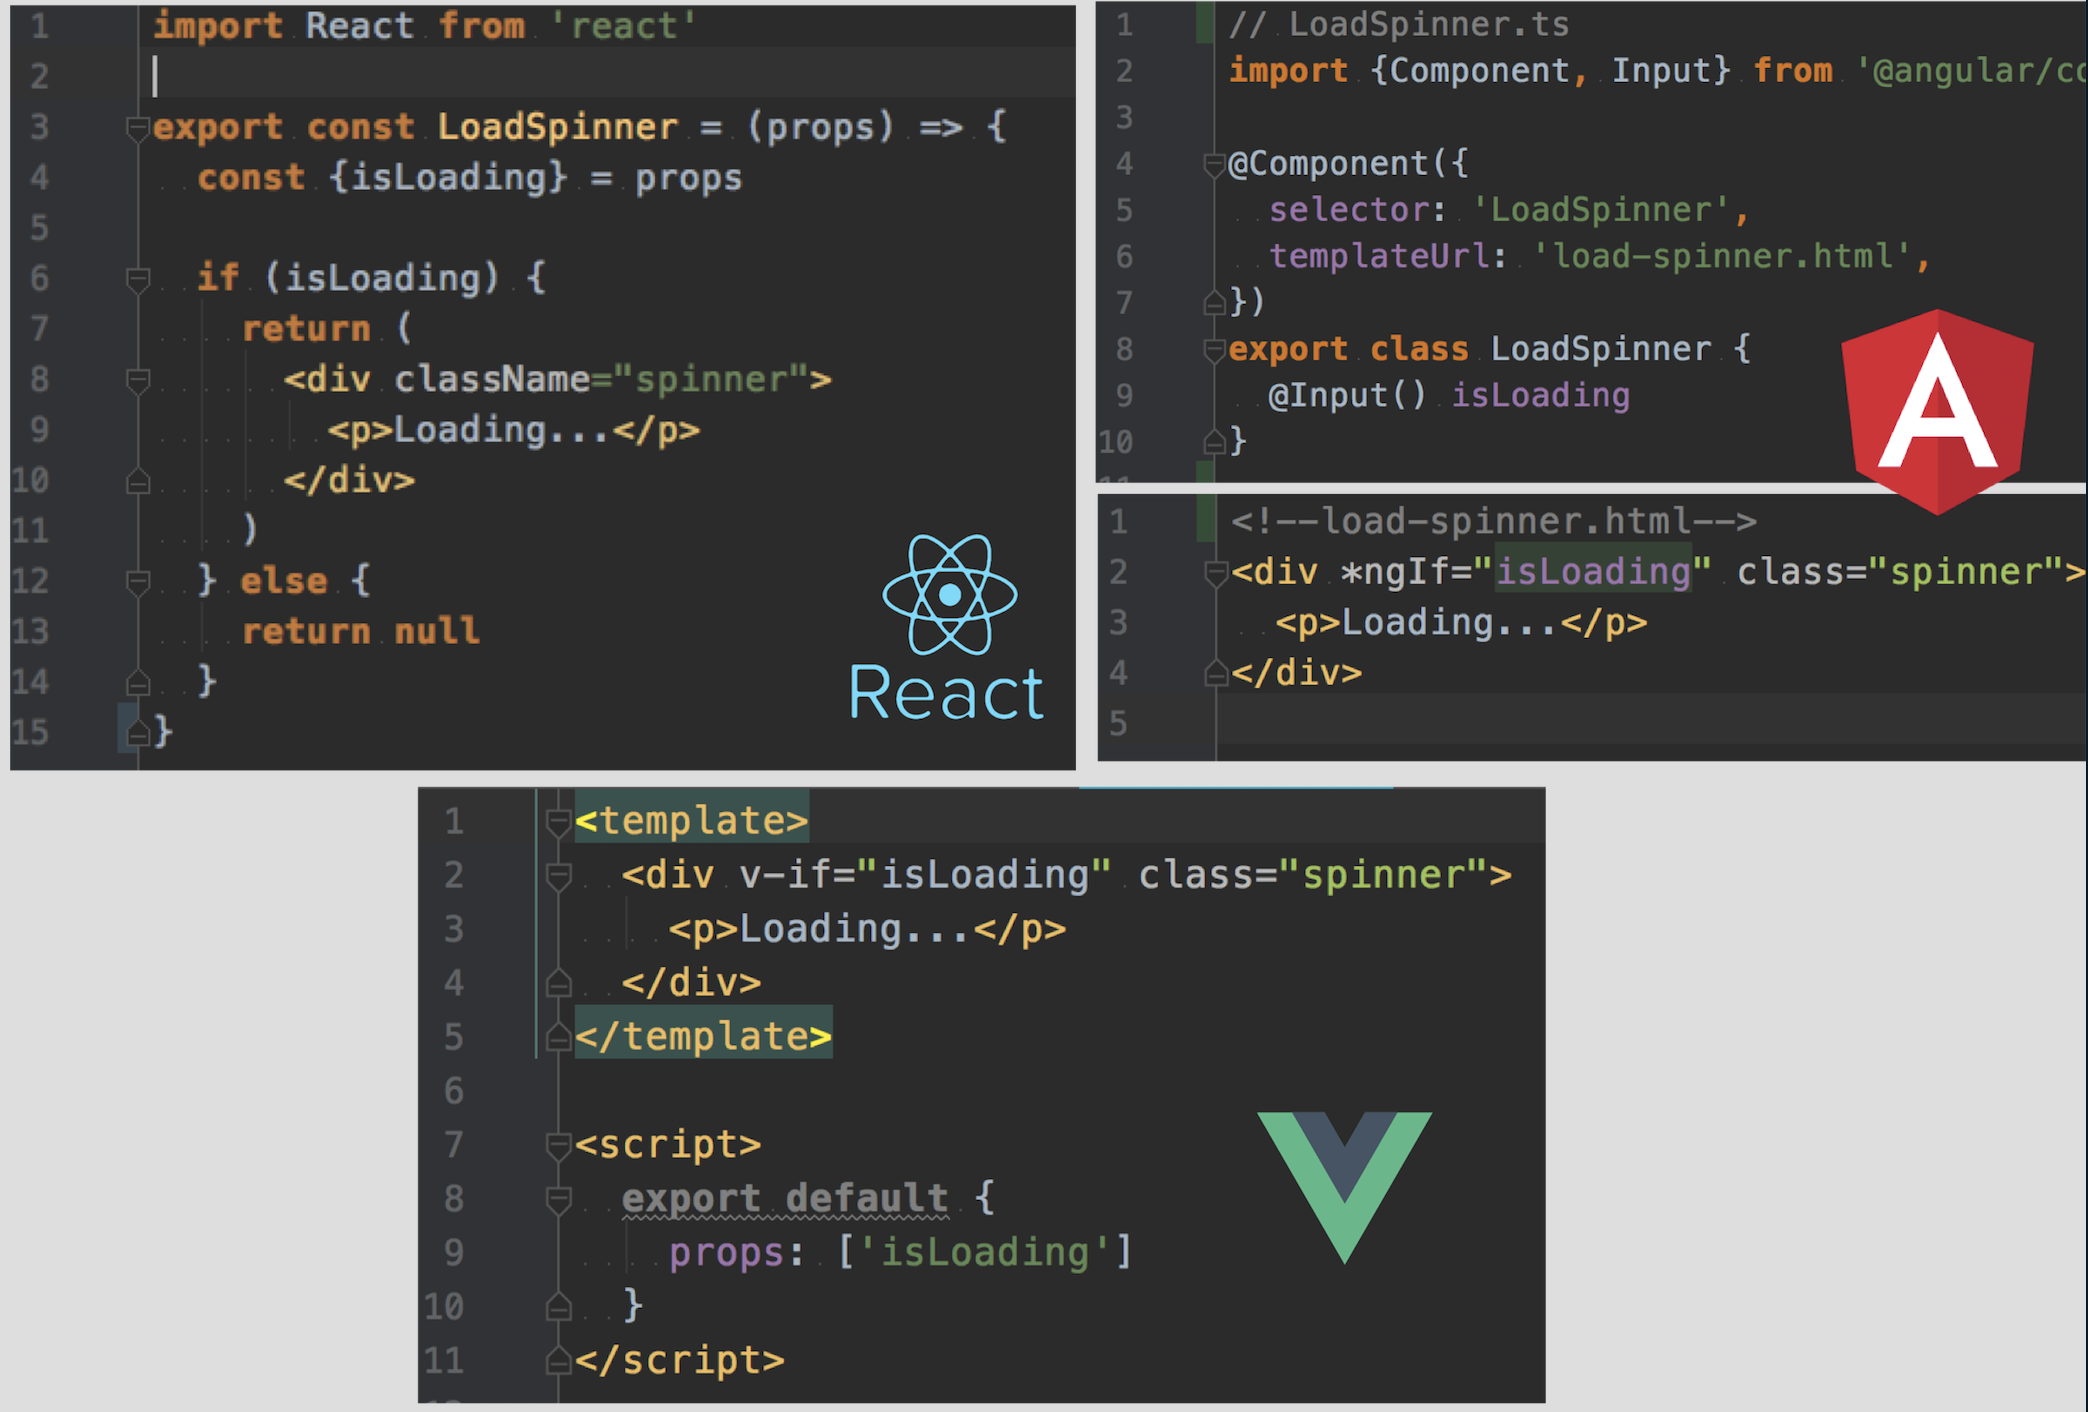
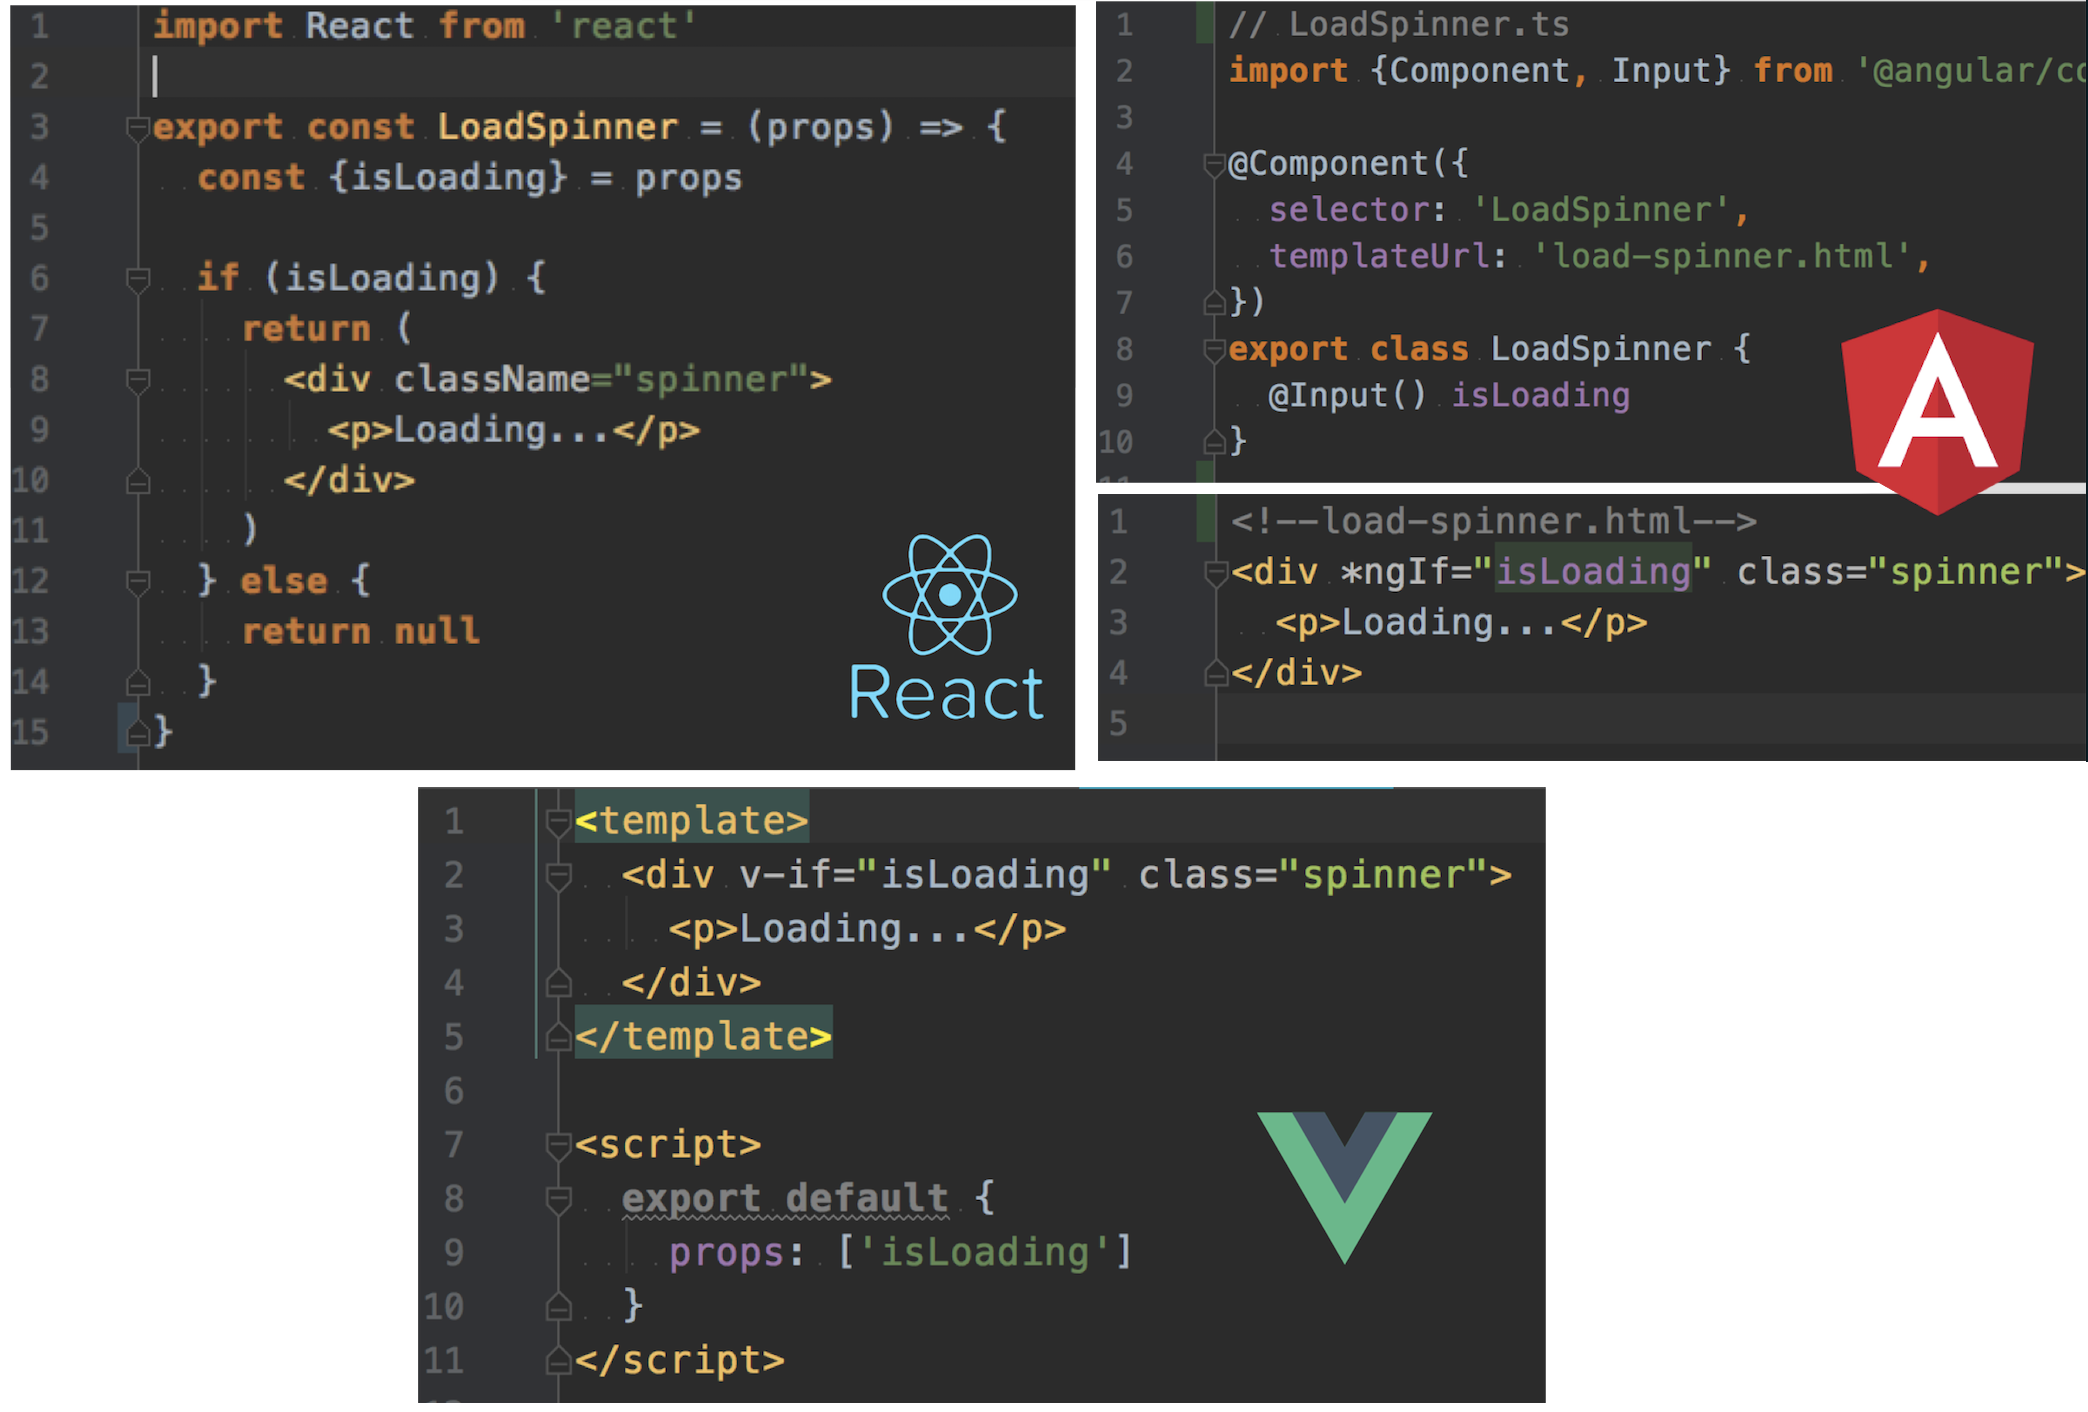
Add tests gif

Changed region(s): [[0.0, 0.0, 1.0, 1.0]]

diff --git a/index.html b/index.html
@@ -112,7 +112,7 @@
 
         <section data-markdown>
           <script type="text/template">
-            GIF TESTS RUNNING
+            ![Tests](images/code/tests.gif)
           </script>
         </section>
 
